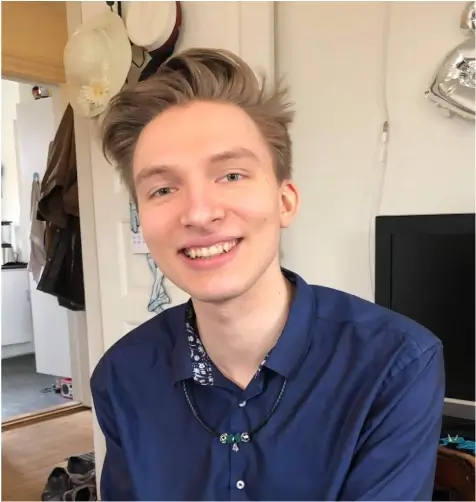
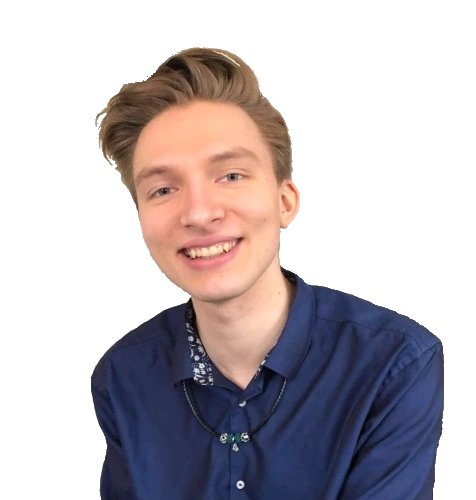
chore: Minor style and text change

diff --git a/src/components/About.jsx b/src/components/About.jsx
@@ -3,6 +3,7 @@ import antonTini from "../assets/images/anton-tini.webp";
 import placeholder from "../assets/images/placeholder.png";
 import emailjs from "emailjs-com";
 import antonCv from "../assets/doc/cv-anton-skogsberg.pdf";
+import { Link } from "react-router-dom";
 
 const AboutContact = () => {
   const handleSubmit = (e) => {
@@ -30,30 +31,25 @@ const AboutContact = () => {
   };
 
   return (
-    <div className="flex flex-wrap lg:flex-nowrap min-h-screen bg-gradient-to-r from-gray-200 via-slate-400 to-gray-500 p-6 items-start">
-      {/* Left Side: Image and Text */}
+    <div className="bg-gradient-to-r from-gray-200 via-slate-400 to-gray-500 p-6 flex flex-wrap lg:flex-nowrap min-h-screen p-6 md:mt-10 lg:mt-10  2xl:mt-10 items-start">
+      {/* Image and Bio */}
       <div className="lg:w-1/2 flex flex-col justify-start pr-8">
         {/* Images Section */}
         <div className="flex items-center px-4 lg:px-8">
           {/* Static Image */}
-          <div className="relative group w-32 h-32 md:w-48 md:h-48 flex-shrink-0">
+          <div className="relative rounded-lg  bg-gradient-to-r from-gray-400 via-blue-900 to-gray-400 group w-32 h-32 md:w-48 md:h-48 flex-shrink-0 drop-shadow-lg">
             <img
-              alt="Anton"
+              alt="Anton Skogsberg"
               src={antonTini}
               className="w-full h-full object-cover shadow-lg rounded-lg"
             />
-            {/* Hover Text */}
-            <div className="absolute inset-0 flex items-center justify-center bg-black bg-opacity-50 opacity-0 group-hover:opacity-100 transition-opacity duration-300">
-              <p className="text-white text-sm md:text-lg">To be replaced</p>
-            </div>
           </div>
-
-          {/* Animated Placeholder Image */}
-          <div className="relative group w-24 h-24 flex-shrink-0 ml-14 lg:ml-40">
+          {/* Animated Image */}
+          <div className="relative group w-24 h-24 flex-shrink-0 sm:ml-14 md:ml-80 lg:ml-72 2xl:ml-80 drop-shadow-lg">
             <img
               src={placeholder}
-              alt="Placeholder for animation"
-              className="w-full h-full object-cover shadow-lg rounded-lg animate-pulse"
+              alt="Animation"
+              className="w-full h-full object-cover shadow-lg rounded-full animate-pulse"
             />
             {/* Hover Text */}
             <div className="absolute inset-0 flex items-center justify-center bg-black bg-opacity-50 opacity-0 group-hover:opacity-100 transition-opacity duration-300">
@@ -63,28 +59,26 @@ const AboutContact = () => {
         </div>
 
         {/* Description */}
-        <div className="px-4 lg:px-8 mt-6">
+        <div className="px-4 lg:px-8 mt-8">
           <p className="text-justify text-slate-750 leading-relaxed">
-            Hi there! My name is Anton Skogsberg, and I’m an aspiring character animator, soon to graduate from{" "}
-            <a
-              href="https://animationworkshop.via.dk/programmes-and-courses/bachelor-programmes/character-animation"
-              target="_blank"
-              rel="noopener noreferrer"
-              className=" hover:text-blue-500 transition-transform duration-200"
-            >
-              The Animation Workshop
-            </a>{" "}
-            in Denmark-one of Europe’s top schools for animation and visual arts. I love creating characters that feel alive, tell meaningful stories through movement, and leave a lasting impression.
+            I’m a character animator, soon to graduate from The Animation Workshop in Denmark. One of Europe’s top schools for animation and visual arts. I love creating characters that feel alive, tell meaningful stories through movement, and leave
+            a lasting impression.
           </p>
 
           <p className="text-justify text-slate-750 leading-relaxed mt-6">
-            Over the course of my studies, I’ve specialized in
-            <span className="font-semibold italic bg-pink-500">[Examples: "3D character animation," "hand-drawn animation," or "motion capture."]</span>, while working on collaborative projects that have sharpened my skills in storytelling, teamwork,
-            and using industry-standard tools such as
-            <span className="font-semibold italic bg-pink-500">[Examples: Maya, Blender, Toon Boom, Unreal Engine, After Effects.]</span>. I’m always excited to explore new approaches to animation and push creative boundaries to bring engaging
-            characters to life.
+            Over the course of my studies, I’ve specialized in 3D character animation, while working on collaborative projects that have sharpened my skills in storytelling, teamwork and using industry-standard tools such as Maya, Blender, Toon Boom,
+            Unreal Engine and After Effects. I’m always excited to explore new approaches to animation and push creative boundaries to bring engaging characters to life.
           </p>
-          <p className="text-justify text-slate-750 leading-relaxed mt-6">If you’d like to see more of my work or collaborate on a project, feel free to check out my portfolio and get in touch. I’d love to hear from you!</p>
+          <p className="text-justify text-slate-750 leading-relaxed mt-6">
+            If you’d like to see more of my work or collaborate on a project, feel free to check out{" "}
+            <Link
+              to="/work"
+              className="text-blue-900 hover:text-blue-700 transition-transform duration-300"
+            >
+              my portfolio
+            </Link>{" "}
+            and get in touch. I’d love to hear from you!
+          </p>
 
           {/* Download CV */}
           <a
@@ -111,7 +105,7 @@ const AboutContact = () => {
         </div>
       </div>
 
-      {/* Right Side: Contact Form */}
+      {/* Contact Form */}
       <div className="w-full lg:w-1/2 bg-white shadow-lg rounded-lg p-6 lg:p-8 md:mt-24 lg:mt-24 mx-auto max-w-lg">
         <h2 className="text-2xl font-semibold mb-4 text-slate-750 text-center lg:text-left">Contact Me</h2>
         <form

diff --git a/src/components/Home.jsx b/src/components/Home.jsx
@@ -1,9 +1,9 @@
 import React, { useEffect, useRef } from "react";
-import { useNavigate } from "react-router-dom";
+// import { useNavigate } from "react-router-dom";
 
 const Home = () => {
   const videoRef = useRef(null);
-  const navigate = useNavigate();
+  // const navigate = useNavigate();
 
   useEffect(() => {
     const videoElement = videoRef.current;
@@ -41,7 +41,7 @@ const Home = () => {
 
   return (
     <div
-      className="relative h-screen bg-gradient-to-r from-gray-200 via-slate-400 to-gray-500 flex items-center justify-center"
+      className="relative h-screen bg-gradient-to-r from-gray-200 via-slate-400 to-gray-500  flex items-start justify-center pt-8"
       onMouseEnter={handleMouseEnter}
       onMouseLeave={handleMouseLeave}
     >
@@ -57,7 +57,7 @@ const Home = () => {
         />
       </div>
 
-      {/* Overlay Content */}
+      {/* Overlay Content 
       <div className="absolute top-1/2 left-1/2 transform -translate-x-1/2 -translate-y-1/2 text-center text-white">
         <h1 className="text-5xl font-bold mb-6 drop-shadow-lg">Anton Skogsberg</h1>
         <div className="flex justify-center space-x-4">
@@ -75,6 +75,7 @@ const Home = () => {
           </button>
         </div>
       </div>
+      */}
     </div>
   );
 };

diff --git a/src/components/Gallery.jsx b/src/components/Gallery.jsx
@@ -3,7 +3,7 @@ import React, { useState } from "react";
 const artworks = [
   {
     id: 1,
-    title: "2D Animation Showreel by Anton Skogsberg",
+    title: "",
     description: "Showcasing dynamic hand-drawn animations and scenes created using industry-standard tools like TVPaint, Harmony, Photoshop, and After Effects.",
     imageUrl: "https://res.cloudinary.com/dsbcjtatz/image/upload/v1735807737/anton/2D/antonSkogsberg_2DThumbnail_v001_b4u6ha.png",
     videoUrl: "https://res.cloudinary.com/dsbcjtatz/video/upload/v1735807745/anton/2D/antonSkogsberg_2DShowreel_v003_kd941l.mp4",
@@ -12,7 +12,7 @@ const artworks = [
 
   {
     id: 2,
-    title: "3D Animation Showreel by Anton Skogsberg",
+    title: "",
     description: "A collection of 3D animations showcasing realistic physics, character rigging, and environmental design, created using Maya, Blender, After Effects, and Photoshop.",
     imageUrl: "https://res.cloudinary.com/dsbcjtatz/image/upload/v1735807074/anton/3D/antonSkogsberg_3DThumbnail_v001_efmy9d.png",
     videoUrl: "https://res.cloudinary.com/dsbcjtatz/video/upload/v1735807083/anton/3D/antonSkogsberg_3DShowreel_v006_lcpenm.mp4",
